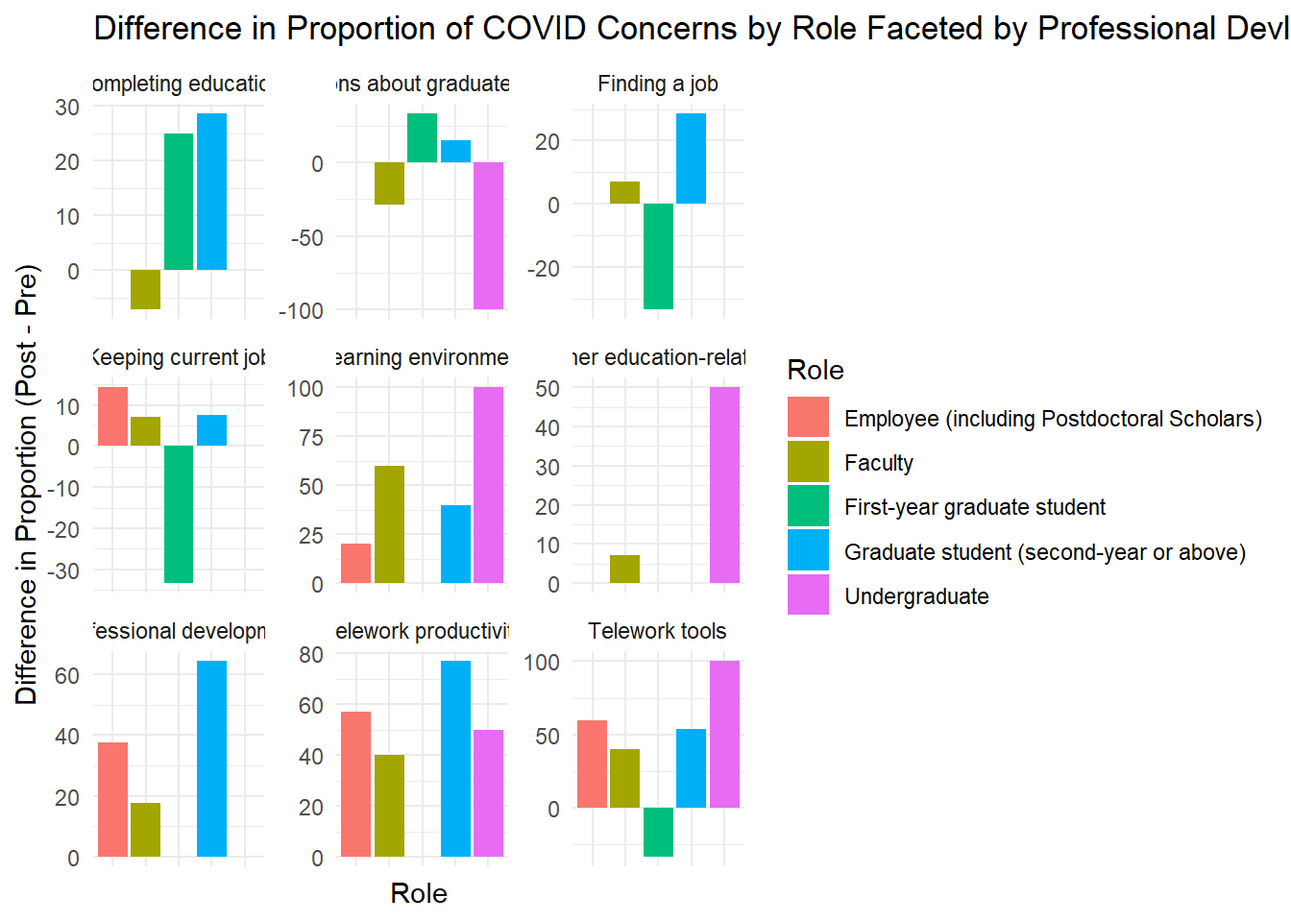
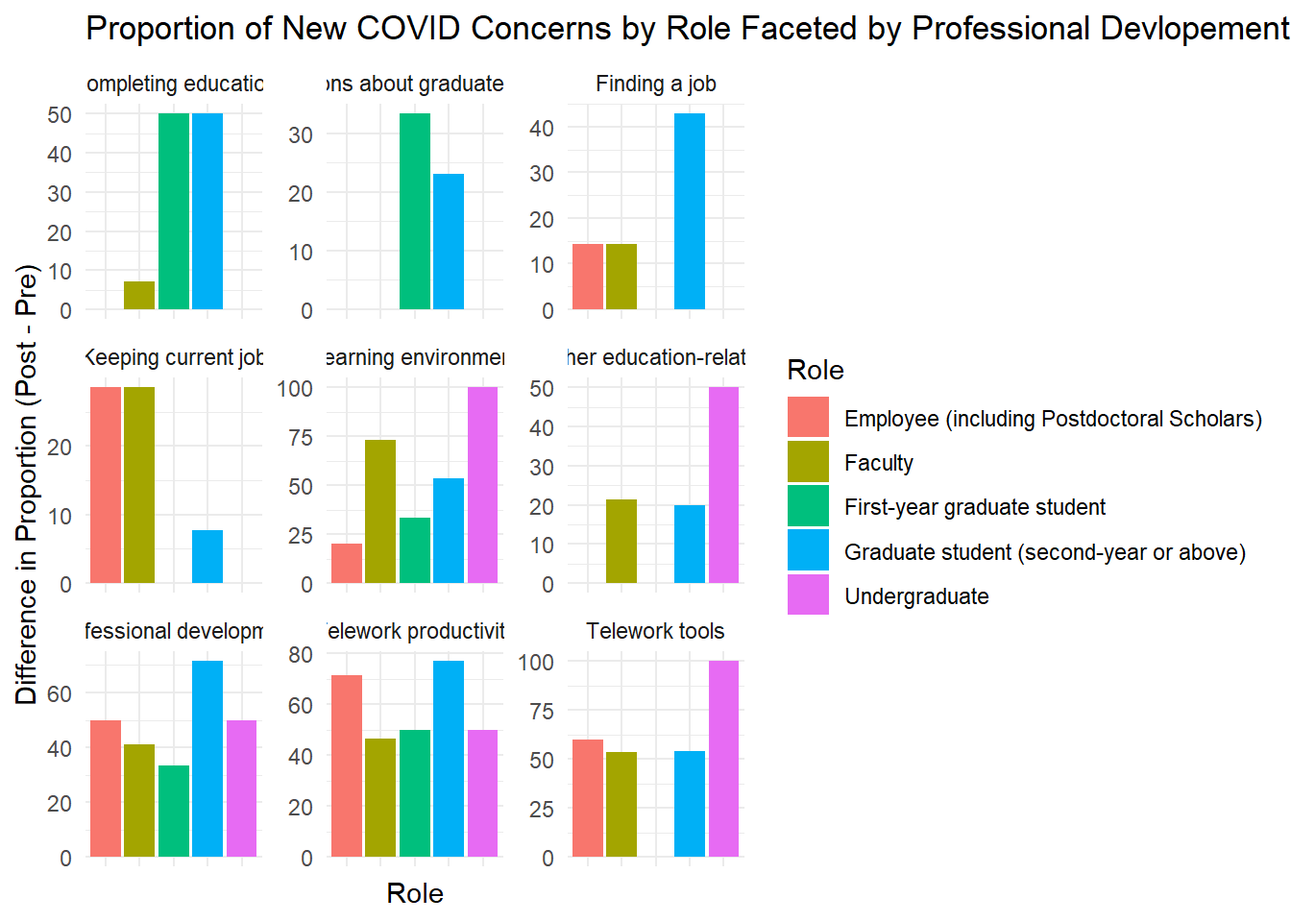
fixed issue no more difference

diff --git a/June10-14Activity.html b/June10-14Activity.html
@@ -951,10 +951,10 @@ $graph</code></pre>
 <span id="cb26-12"><a href="#cb26-12" aria-hidden="true" tabindex="-1"></a>    <span class="at">pre_covid =</span> <span class="fu">sum</span>(General.well.being <span class="sc">==</span> <span class="dv">1</span>),</span>
 <span id="cb26-13"><a href="#cb26-13" aria-hidden="true" tabindex="-1"></a>    <span class="at">post_covid =</span> <span class="fu">sum</span>(General.well.being <span class="sc">==</span> <span class="dv">2</span>)</span>
 <span id="cb26-14"><a href="#cb26-14" aria-hidden="true" tabindex="-1"></a>  )</span>
-<span id="cb26-15"><a href="#cb26-15" aria-hidden="true" tabindex="-1"></a>concern_counts <span class="ot">&lt;-</span> concern_counts <span class="sc">%&gt;%</span></span>
+<span id="cb26-15"><a href="#cb26-15" aria-hidden="true" tabindex="-1"></a>concern_counts2 <span class="ot">&lt;-</span> concern_counts <span class="sc">%&gt;%</span></span>
 <span id="cb26-16"><a href="#cb26-16" aria-hidden="true" tabindex="-1"></a>  <span class="fu">mutate</span>(<span class="at">difference =</span> post_covid <span class="sc">-</span> pre_covid)</span>
 <span id="cb26-17"><a href="#cb26-17" aria-hidden="true" tabindex="-1"></a></span>
-<span id="cb26-18"><a href="#cb26-18" aria-hidden="true" tabindex="-1"></a><span class="fu">ggplot</span>(concern_counts, <span class="fu">aes</span>(<span class="at">x =</span> difference, <span class="at">y =</span> difference, <span class="at">fill =</span> Race_Ethnicity)) <span class="sc">+</span></span>
+<span id="cb26-18"><a href="#cb26-18" aria-hidden="true" tabindex="-1"></a><span class="fu">ggplot</span>(concern_counts2, <span class="fu">aes</span>(<span class="at">x =</span> difference, <span class="at">y =</span> difference, <span class="at">fill =</span> Race_Ethnicity)) <span class="sc">+</span></span>
 <span id="cb26-19"><a href="#cb26-19" aria-hidden="true" tabindex="-1"></a>  <span class="fu">geom_bar</span>(<span class="at">stat =</span> <span class="st">"identity"</span>) <span class="sc">+</span></span>
 <span id="cb26-20"><a href="#cb26-20" aria-hidden="true" tabindex="-1"></a>  <span class="fu">labs</span>(<span class="at">title =</span> <span class="st">"Difference in Post-Pre COVID Concerns for General Well-being by Race/Ethnicity"</span>,</span>
 <span id="cb26-21"><a href="#cb26-21" aria-hidden="true" tabindex="-1"></a>       <span class="at">x =</span> <span class="st">"Race/Ethnicity"</span>,</span>
@@ -971,20 +971,19 @@ $graph</code></pre>
 </div>
 <div class="cell">
 <div class="sourceCode cell-code" id="cb27"><pre class="sourceCode r code-with-copy"><code class="sourceCode r"><span id="cb27-1"><a href="#cb27-1" aria-hidden="true" tabindex="-1"></a>concern_counts <span class="sc">%&gt;%</span></span>
-<span id="cb27-2"><a href="#cb27-2" aria-hidden="true" tabindex="-1"></a>  <span class="fu">kable</span>(<span class="at">col.names =</span> <span class="fu">c</span>(<span class="st">"Race/Ethnicity"</span>, <span class="st">"Pre-COVID Concerns"</span>, <span class="st">"Post-COVID Concerns"</span>, <span class="st">"Difference (Post - Pre)"</span>), </span>
-<span id="cb27-3"><a href="#cb27-3" aria-hidden="true" tabindex="-1"></a>        <span class="at">caption =</span> <span class="st">"Difference in Post-Pre COVID Concerns for General Well-being by Race/Ethnicity"</span>) <span class="sc">%&gt;%</span></span>
+<span id="cb27-2"><a href="#cb27-2" aria-hidden="true" tabindex="-1"></a>  <span class="fu">kable</span>(<span class="at">col.names =</span> <span class="fu">c</span>(<span class="st">"Race/Ethnicity"</span>, <span class="st">"Pre-COVID Concerns"</span>, <span class="st">"Post-COVID Concerns"</span>), </span>
+<span id="cb27-3"><a href="#cb27-3" aria-hidden="true" tabindex="-1"></a>        <span class="at">caption =</span> <span class="st">"Pre and New COVID Concerns for General Well-being by Race/Ethnicity"</span>) <span class="sc">%&gt;%</span></span>
 <span id="cb27-4"><a href="#cb27-4" aria-hidden="true" tabindex="-1"></a>  <span class="fu">kable_styling</span>(<span class="at">bootstrap_options =</span> <span class="fu">c</span>(<span class="st">"striped"</span>, <span class="st">"hover"</span>, <span class="st">"condensed"</span>, <span class="st">"responsive"</span>))</span></code><button title="Copy to Clipboard" class="code-copy-button"><i class="bi"></i></button></pre></div>
 <div class="cell-output-display">
 <div>
 <div class="table-responsive">
 <table class="table table-striped table-hover table-condensed table-sm small" data-quarto-postprocess="true">
-<caption>Difference in Post-Pre COVID Concerns for General Well-being by Race/Ethnicity</caption>
+<caption>Pre and New COVID Concerns for General Well-being by Race/Ethnicity</caption>
 <thead>
 <tr class="header">
 <th style="text-align: left;" data-quarto-table-cell-role="th">Race/Ethnicity</th>
 <th style="text-align: right;" data-quarto-table-cell-role="th">Pre-COVID Concerns</th>
 <th style="text-align: right;" data-quarto-table-cell-role="th">Post-COVID Concerns</th>
-<th style="text-align: right;" data-quarto-table-cell-role="th">Difference (Post - Pre)</th>
 </tr>
 </thead>
 <tbody>
@@ -992,17 +991,14 @@ $graph</code></pre>
 <td style="text-align: left;">Asian</td>
 <td style="text-align: right;">1</td>
 <td style="text-align: right;">2</td>
-<td style="text-align: right;">1</td>
 </tr>
 <tr class="even">
 <td style="text-align: left;">Black or African American</td>
 <td style="text-align: right;">1</td>
 <td style="text-align: right;">1</td>
-<td style="text-align: right;">0</td>
 </tr>
 <tr class="odd">
 <td style="text-align: left;">Decline to state</td>
-<td style="text-align: right;">0</td>
 <td style="text-align: right;">0</td>
 <td style="text-align: right;">0</td>
 </tr>
@@ -1010,23 +1006,19 @@ $graph</code></pre>
 <td style="text-align: left;">Hispanic or Latinx</td>
 <td style="text-align: right;">2</td>
 <td style="text-align: right;">2</td>
-<td style="text-align: right;">0</td>
 </tr>
 <tr class="odd">
 <td style="text-align: left;">Mixed Race (two or more races)</td>
 <td style="text-align: right;">1</td>
 <td style="text-align: right;">2</td>
-<td style="text-align: right;">1</td>
 </tr>
 <tr class="even">
 <td style="text-align: left;">Native Hawaiian or Other Pacific Islander</td>
 <td style="text-align: right;">1</td>
 <td style="text-align: right;">1</td>
-<td style="text-align: right;">0</td>
 </tr>
 <tr class="odd">
 <td style="text-align: left;">Other (write-in)</td>
-<td style="text-align: right;">0</td>
 <td style="text-align: right;">0</td>
 <td style="text-align: right;">0</td>
 </tr>
@@ -1034,7 +1026,6 @@ $graph</code></pre>
 <td style="text-align: left;">White</td>
 <td style="text-align: right;">4</td>
 <td style="text-align: right;">12</td>
-<td style="text-align: right;">8</td>
 </tr>
 </tbody>
 </table>
@@ -1067,25 +1058,23 @@ $graph</code></pre>
 <span id="cb28-20"><a href="#cb28-20" aria-hidden="true" tabindex="-1"></a>  <span class="fu">mutate</span>(</span>
 <span id="cb28-21"><a href="#cb28-21" aria-hidden="true" tabindex="-1"></a>    <span class="at">pre_covid_prop =</span> <span class="fu">round</span>((pre_covid <span class="sc">/</span> total) <span class="sc">*</span> <span class="dv">100</span>, <span class="dv">2</span>),</span>
 <span id="cb28-22"><a href="#cb28-22" aria-hidden="true" tabindex="-1"></a>    <span class="at">post_covid_prop =</span> <span class="fu">round</span>((post_covid <span class="sc">/</span> total) <span class="sc">*</span> <span class="dv">100</span>, <span class="dv">2</span>),</span>
-<span id="cb28-23"><a href="#cb28-23" aria-hidden="true" tabindex="-1"></a>    <span class="at">difference =</span> <span class="fu">round</span>(post_covid_prop <span class="sc">-</span> pre_covid_prop, <span class="dv">2</span>)</span>
-<span id="cb28-24"><a href="#cb28-24" aria-hidden="true" tabindex="-1"></a>  )</span>
-<span id="cb28-25"><a href="#cb28-25" aria-hidden="true" tabindex="-1"></a></span>
-<span id="cb28-26"><a href="#cb28-26" aria-hidden="true" tabindex="-1"></a>concern_counts <span class="sc">%&gt;%</span></span>
-<span id="cb28-27"><a href="#cb28-27" aria-hidden="true" tabindex="-1"></a>  <span class="fu">select</span>(Race_Ethnicity, pre_covid_prop, post_covid_prop, difference) <span class="sc">%&gt;%</span></span>
-<span id="cb28-28"><a href="#cb28-28" aria-hidden="true" tabindex="-1"></a>  <span class="fu">kable</span>(<span class="at">col.names =</span> <span class="fu">c</span>(<span class="st">"Race/Ethnicity"</span>, <span class="st">"Pre-COVID Proportion (%)"</span>, <span class="st">"Post-COVID Proportion (%)"</span>, <span class="st">"Difference (Post - Pre)"</span>), </span>
-<span id="cb28-29"><a href="#cb28-29" aria-hidden="true" tabindex="-1"></a>        <span class="at">caption =</span> <span class="st">"Difference in Post-Pre COVID Concerns for Professional Development (Proportions)"</span>) <span class="sc">%&gt;%</span></span>
-<span id="cb28-30"><a href="#cb28-30" aria-hidden="true" tabindex="-1"></a>  <span class="fu">kable_styling</span>(<span class="at">bootstrap_options =</span> <span class="fu">c</span>(<span class="st">"striped"</span>, <span class="st">"hover"</span>, <span class="st">"condensed"</span>, <span class="st">"responsive"</span>))</span></code><button title="Copy to Clipboard" class="code-copy-button"><i class="bi"></i></button></pre></div>
+<span id="cb28-23"><a href="#cb28-23" aria-hidden="true" tabindex="-1"></a>  )</span>
+<span id="cb28-24"><a href="#cb28-24" aria-hidden="true" tabindex="-1"></a></span>
+<span id="cb28-25"><a href="#cb28-25" aria-hidden="true" tabindex="-1"></a>concern_counts <span class="sc">%&gt;%</span></span>
+<span id="cb28-26"><a href="#cb28-26" aria-hidden="true" tabindex="-1"></a>  <span class="fu">select</span>(Race_Ethnicity, pre_covid_prop, post_covid_prop) <span class="sc">%&gt;%</span></span>
+<span id="cb28-27"><a href="#cb28-27" aria-hidden="true" tabindex="-1"></a>  <span class="fu">kable</span>(<span class="at">col.names =</span> <span class="fu">c</span>(<span class="st">"Race/Ethnicity"</span>, <span class="st">"Pre-COVID Proportion (%)"</span>, <span class="st">"New COVID Proportion (%)"</span>), </span>
+<span id="cb28-28"><a href="#cb28-28" aria-hidden="true" tabindex="-1"></a>        <span class="at">caption =</span> <span class="st">"Pre and New COVID Concerns for Professional Development (Proportions)"</span>) <span class="sc">%&gt;%</span></span>
+<span id="cb28-29"><a href="#cb28-29" aria-hidden="true" tabindex="-1"></a>  <span class="fu">kable_styling</span>(<span class="at">bootstrap_options =</span> <span class="fu">c</span>(<span class="st">"striped"</span>, <span class="st">"hover"</span>, <span class="st">"condensed"</span>, <span class="st">"responsive"</span>))</span></code><button title="Copy to Clipboard" class="code-copy-button"><i class="bi"></i></button></pre></div>
 <div class="cell-output-display">
 <div>
 <div class="table-responsive">
 <table class="table table-striped table-hover table-condensed table-sm small" data-quarto-postprocess="true">
-<caption>Difference in Post-Pre COVID Concerns for Professional Development (Proportions)</caption>
+<caption>Pre and New COVID Concerns for Professional Development (Proportions)</caption>
 <thead>
 <tr class="header">
 <th style="text-align: left;" data-quarto-table-cell-role="th">Race/Ethnicity</th>
 <th style="text-align: right;" data-quarto-table-cell-role="th">Pre-COVID Proportion (%)</th>
-<th style="text-align: right;" data-quarto-table-cell-role="th">Post-COVID Proportion (%)</th>
-<th style="text-align: right;" data-quarto-table-cell-role="th">Difference (Post - Pre)</th>
+<th style="text-align: right;" data-quarto-table-cell-role="th">New COVID Proportion (%)</th>
 </tr>
 </thead>
 <tbody>
@@ -1093,49 +1082,41 @@ $graph</code></pre>
 <td style="text-align: left;">Asian</td>
 <td style="text-align: right;">37.50</td>
 <td style="text-align: right;">37.50</td>
-<td style="text-align: right;">0.00</td>
 </tr>
 <tr class="even">
 <td style="text-align: left;">Black or African American</td>
 <td style="text-align: right;">66.67</td>
 <td style="text-align: right;">33.33</td>
-<td style="text-align: right;">-33.34</td>
 </tr>
 <tr class="odd">
 <td style="text-align: left;">Decline to state</td>
 <td style="text-align: right;">0.00</td>
-<td style="text-align: right;">100.00</td>
 <td style="text-align: right;">100.00</td>
 </tr>
 <tr class="even">
 <td style="text-align: left;">Hispanic or Latinx</td>
 <td style="text-align: right;">0.00</td>
 <td style="text-align: right;">66.67</td>
-<td style="text-align: right;">66.67</td>
 </tr>
 <tr class="odd">
 <td style="text-align: left;">Mixed Race (two or more races)</td>
 <td style="text-align: right;">33.33</td>
 <td style="text-align: right;">50.00</td>
-<td style="text-align: right;">16.67</td>
 </tr>
 <tr class="even">
 <td style="text-align: left;">Native Hawaiian or Other Pacific Islander</td>
 <td style="text-align: right;">50.00</td>
 <td style="text-align: right;">50.00</td>
-<td style="text-align: right;">0.00</td>
 </tr>
 <tr class="odd">
 <td style="text-align: left;">Other (write-in)</td>
 <td style="text-align: right;">0.00</td>
-<td style="text-align: right;">50.00</td>
 <td style="text-align: right;">50.00</td>
 </tr>
 <tr class="even">
 <td style="text-align: left;">White</td>
 <td style="text-align: right;">11.54</td>
 <td style="text-align: right;">61.54</td>
-<td style="text-align: right;">50.00</td>
 </tr>
 </tbody>
 </table>
@@ -1146,20 +1127,13 @@ $graph</code></pre>
 </div>
 </div>
 <div class="cell">
-<div class="sourceCode cell-code" id="cb29"><pre class="sourceCode r code-with-copy"><code class="sourceCode r"><span id="cb29-1"><a href="#cb29-1" aria-hidden="true" tabindex="-1"></a><span class="fu">ggplot</span>(concern_counts, <span class="fu">aes</span>(<span class="at">x =</span> Race_Ethnicity, <span class="at">y =</span> difference, <span class="at">fill =</span> Race_Ethnicity)) <span class="sc">+</span></span>
-<span id="cb29-2"><a href="#cb29-2" aria-hidden="true" tabindex="-1"></a>  <span class="fu">geom_bar</span>(<span class="at">stat =</span> <span class="st">"identity"</span>) <span class="sc">+</span></span>
-<span id="cb29-3"><a href="#cb29-3" aria-hidden="true" tabindex="-1"></a>  <span class="fu">labs</span>(<span class="at">title =</span> <span class="st">"Difference in Proportion of Professional Development by Race"</span>,</span>
-<span id="cb29-4"><a href="#cb29-4" aria-hidden="true" tabindex="-1"></a>       <span class="at">x =</span> <span class="st">""</span>, <span class="at">y =</span> <span class="st">"Difference in Proportion (Post - Pre)"</span>) <span class="sc">+</span></span>
-<span id="cb29-5"><a href="#cb29-5" aria-hidden="true" tabindex="-1"></a>  <span class="fu">theme_minimal</span>() <span class="sc">+</span></span>
-<span id="cb29-6"><a href="#cb29-6" aria-hidden="true" tabindex="-1"></a>  <span class="fu">theme</span>(<span class="at">axis.text.x=</span><span class="fu">element_blank</span>(), </span>
-<span id="cb29-7"><a href="#cb29-7" aria-hidden="true" tabindex="-1"></a>        <span class="at">axis.ticks.x=</span><span class="fu">element_blank</span>())</span></code><button title="Copy to Clipboard" class="code-copy-button"><i class="bi"></i></button></pre></div>
-<div class="cell-output-display">
-<div>
-<figure class="figure">
-<p><img src="June10-14Activity_files/figure-html/unnamed-chunk-15-1.png" class="img-fluid figure-img" width="672"></p>
-</figure>
-</div>
-</div>
+<div class="sourceCode cell-code" id="cb29"><pre class="sourceCode r code-with-copy"><code class="sourceCode r"><span id="cb29-1"><a href="#cb29-1" aria-hidden="true" tabindex="-1"></a><span class="co"># ggplot(concern_counts, aes(x = Race_Ethnicity, y = difference, fill = Race_Ethnicity)) +</span></span>
+<span id="cb29-2"><a href="#cb29-2" aria-hidden="true" tabindex="-1"></a><span class="co">#   geom_bar(stat = "identity") +</span></span>
+<span id="cb29-3"><a href="#cb29-3" aria-hidden="true" tabindex="-1"></a><span class="co">#   labs(title = "Difference in Proportion of Professional Development by Race",</span></span>
+<span id="cb29-4"><a href="#cb29-4" aria-hidden="true" tabindex="-1"></a><span class="co">#        x = "", y = "Difference in Proportion (Post - Pre)") +</span></span>
+<span id="cb29-5"><a href="#cb29-5" aria-hidden="true" tabindex="-1"></a><span class="co">#   theme_minimal() +</span></span>
+<span id="cb29-6"><a href="#cb29-6" aria-hidden="true" tabindex="-1"></a><span class="co">#   theme(axis.text.x=element_blank(), </span></span>
+<span id="cb29-7"><a href="#cb29-7" aria-hidden="true" tabindex="-1"></a><span class="co">#         axis.ticks.x=element_blank())</span></span></code><button title="Copy to Clipboard" class="code-copy-button"><i class="bi"></i></button></pre></div>
 </div>
 <div class="cell">
 <div class="sourceCode cell-code" id="cb30"><pre class="sourceCode r code-with-copy"><code class="sourceCode r"><span id="cb30-1"><a href="#cb30-1" aria-hidden="true" tabindex="-1"></a>df_personal[] <span class="ot">&lt;-</span> <span class="fu">lapply</span>(df_personal[], as.character)</span>
@@ -1183,26 +1157,24 @@ $graph</code></pre>
 <span id="cb30-19"><a href="#cb30-19" aria-hidden="true" tabindex="-1"></a>  <span class="fu">left_join</span>(total_counts, <span class="at">by =</span> <span class="st">"Race_Ethnicity"</span>) <span class="sc">%&gt;%</span></span>
 <span id="cb30-20"><a href="#cb30-20" aria-hidden="true" tabindex="-1"></a>  <span class="fu">mutate</span>(</span>
 <span id="cb30-21"><a href="#cb30-21" aria-hidden="true" tabindex="-1"></a>    <span class="at">pre_covid_prop =</span> <span class="fu">round</span>((pre_covid <span class="sc">/</span> total) <span class="sc">*</span> <span class="dv">100</span>, <span class="dv">2</span>),</span>
-<span id="cb30-22"><a href="#cb30-22" aria-hidden="true" tabindex="-1"></a>    <span class="at">post_covid_prop =</span> <span class="fu">round</span>((post_covid <span class="sc">/</span> total) <span class="sc">*</span> <span class="dv">100</span>, <span class="dv">2</span>),</span>
-<span id="cb30-23"><a href="#cb30-23" aria-hidden="true" tabindex="-1"></a>    <span class="at">difference =</span> <span class="fu">round</span>(post_covid_prop <span class="sc">-</span> pre_covid_prop, <span class="dv">2</span>)</span>
-<span id="cb30-24"><a href="#cb30-24" aria-hidden="true" tabindex="-1"></a>  )</span>
-<span id="cb30-25"><a href="#cb30-25" aria-hidden="true" tabindex="-1"></a></span>
-<span id="cb30-26"><a href="#cb30-26" aria-hidden="true" tabindex="-1"></a>concern_counts <span class="sc">%&gt;%</span></span>
-<span id="cb30-27"><a href="#cb30-27" aria-hidden="true" tabindex="-1"></a>  <span class="fu">select</span>(Race_Ethnicity, pre_covid_prop, post_covid_prop, difference) <span class="sc">%&gt;%</span></span>
-<span id="cb30-28"><a href="#cb30-28" aria-hidden="true" tabindex="-1"></a>  <span class="fu">kable</span>(<span class="at">col.names =</span> <span class="fu">c</span>(<span class="st">"Race/Ethnicity"</span>, <span class="st">"Pre-COVID Proportion (%)"</span>, <span class="st">"Post-COVID Proportion (%)"</span>, <span class="st">"Difference (Post - Pre)"</span>), </span>
-<span id="cb30-29"><a href="#cb30-29" aria-hidden="true" tabindex="-1"></a>        <span class="at">caption =</span> <span class="st">"Difference in Post-Pre COVID Concerns for General Well-being by Race/Ethnicity (Proportions)"</span>) <span class="sc">%&gt;%</span></span>
-<span id="cb30-30"><a href="#cb30-30" aria-hidden="true" tabindex="-1"></a>  <span class="fu">kable_styling</span>(<span class="at">bootstrap_options =</span> <span class="fu">c</span>(<span class="st">"striped"</span>, <span class="st">"hover"</span>, <span class="st">"condensed"</span>, <span class="st">"responsive"</span>))</span></code><button title="Copy to Clipboard" class="code-copy-button"><i class="bi"></i></button></pre></div>
+<span id="cb30-22"><a href="#cb30-22" aria-hidden="true" tabindex="-1"></a>    <span class="at">post_covid_prop =</span> <span class="fu">round</span>((post_covid <span class="sc">/</span> total) <span class="sc">*</span> <span class="dv">100</span>, <span class="dv">2</span>)</span>
+<span id="cb30-23"><a href="#cb30-23" aria-hidden="true" tabindex="-1"></a>  )</span>
+<span id="cb30-24"><a href="#cb30-24" aria-hidden="true" tabindex="-1"></a></span>
+<span id="cb30-25"><a href="#cb30-25" aria-hidden="true" tabindex="-1"></a>concern_counts <span class="sc">%&gt;%</span></span>
+<span id="cb30-26"><a href="#cb30-26" aria-hidden="true" tabindex="-1"></a>  <span class="fu">select</span>(Race_Ethnicity, pre_covid_prop, post_covid_prop) <span class="sc">%&gt;%</span></span>
+<span id="cb30-27"><a href="#cb30-27" aria-hidden="true" tabindex="-1"></a>  <span class="fu">kable</span>(<span class="at">col.names =</span> <span class="fu">c</span>(<span class="st">"Race/Ethnicity"</span>, <span class="st">"Pre-COVID Proportion (%)"</span>, <span class="st">"New COVID Proportion (%)"</span>), </span>
+<span id="cb30-28"><a href="#cb30-28" aria-hidden="true" tabindex="-1"></a>        <span class="at">caption =</span> <span class="st">"Pre and New COVID Concerns for General Well-being by Race/Ethnicity (Proportions)"</span>) <span class="sc">%&gt;%</span></span>
+<span id="cb30-29"><a href="#cb30-29" aria-hidden="true" tabindex="-1"></a>  <span class="fu">kable_styling</span>(<span class="at">bootstrap_options =</span> <span class="fu">c</span>(<span class="st">"striped"</span>, <span class="st">"hover"</span>, <span class="st">"condensed"</span>, <span class="st">"responsive"</span>))</span></code><button title="Copy to Clipboard" class="code-copy-button"><i class="bi"></i></button></pre></div>
 <div class="cell-output-display">
 <div>
 <div class="table-responsive">
 <table class="table table-striped table-hover table-condensed table-sm small" data-quarto-postprocess="true">
-<caption>Difference in Post-Pre COVID Concerns for General Well-being by Race/Ethnicity (Proportions)</caption>
+<caption>Pre and New COVID Concerns for General Well-being by Race/Ethnicity (Proportions)</caption>
 <thead>
 <tr class="header">
 <th style="text-align: left;" data-quarto-table-cell-role="th">Race/Ethnicity</th>
 <th style="text-align: right;" data-quarto-table-cell-role="th">Pre-COVID Proportion (%)</th>
-<th style="text-align: right;" data-quarto-table-cell-role="th">Post-COVID Proportion (%)</th>
-<th style="text-align: right;" data-quarto-table-cell-role="th">Difference (Post - Pre)</th>
+<th style="text-align: right;" data-quarto-table-cell-role="th">New COVID Proportion (%)</th>
 </tr>
 </thead>
 <tbody>
@@ -1210,17 +1182,14 @@ $graph</code></pre>
 <td style="text-align: left;">Asian</td>
 <td style="text-align: right;">20.00</td>
 <td style="text-align: right;">40.00</td>
-<td style="text-align: right;">20.00</td>
 </tr>
 <tr class="even">
 <td style="text-align: left;">Black or African American</td>
 <td style="text-align: right;">33.33</td>
 <td style="text-align: right;">33.33</td>
-<td style="text-align: right;">0.00</td>
 </tr>
 <tr class="odd">
 <td style="text-align: left;">Decline to state</td>
-<td style="text-align: right;">0.00</td>
 <td style="text-align: right;">0.00</td>
 <td style="text-align: right;">0.00</td>
 </tr>
@@ -1228,23 +1197,19 @@ $graph</code></pre>
 <td style="text-align: left;">Hispanic or Latinx</td>
 <td style="text-align: right;">33.33</td>
 <td style="text-align: right;">33.33</td>
-<td style="text-align: right;">0.00</td>
 </tr>
 <tr class="odd">
 <td style="text-align: left;">Mixed Race (two or more races)</td>
 <td style="text-align: right;">33.33</td>
 <td style="text-align: right;">66.67</td>
-<td style="text-align: right;">33.34</td>
 </tr>
 <tr class="even">
 <td style="text-align: left;">Native Hawaiian or Other Pacific Islander</td>
 <td style="text-align: right;">50.00</td>
 <td style="text-align: right;">50.00</td>
-<td style="text-align: right;">0.00</td>
 </tr>
 <tr class="odd">
 <td style="text-align: left;">Other (write-in)</td>
-<td style="text-align: right;">0.00</td>
 <td style="text-align: right;">0.00</td>
 <td style="text-align: right;">0.00</td>
 </tr>
@@ -1252,7 +1217,6 @@ $graph</code></pre>
 <td style="text-align: left;">White</td>
 <td style="text-align: right;">16.00</td>
 <td style="text-align: right;">48.00</td>
-<td style="text-align: right;">32.00</td>
 </tr>
 </tbody>
 </table>
@@ -1263,20 +1227,13 @@ $graph</code></pre>
 </div>
 </div>
 <div class="cell">
-<div class="sourceCode cell-code" id="cb31"><pre class="sourceCode r code-with-copy"><code class="sourceCode r"><span id="cb31-1"><a href="#cb31-1" aria-hidden="true" tabindex="-1"></a><span class="fu">ggplot</span>(concern_counts, <span class="fu">aes</span>(<span class="at">x =</span> Race_Ethnicity, <span class="at">y =</span> difference, <span class="at">fill =</span> Race_Ethnicity)) <span class="sc">+</span></span>
-<span id="cb31-2"><a href="#cb31-2" aria-hidden="true" tabindex="-1"></a>  <span class="fu">geom_bar</span>(<span class="at">stat =</span> <span class="st">"identity"</span>) <span class="sc">+</span></span>
-<span id="cb31-3"><a href="#cb31-3" aria-hidden="true" tabindex="-1"></a>  <span class="fu">labs</span>(<span class="at">title =</span> <span class="st">"Difference in Proportion of Generall Well Being by Race"</span>,</span>
-<span id="cb31-4"><a href="#cb31-4" aria-hidden="true" tabindex="-1"></a>       <span class="at">x =</span> <span class="st">""</span>, <span class="at">y =</span> <span class="st">"Difference in Proportion (Post - Pre)"</span>) <span class="sc">+</span></span>
-<span id="cb31-5"><a href="#cb31-5" aria-hidden="true" tabindex="-1"></a>  <span class="fu">theme_minimal</span>() <span class="sc">+</span></span>
-<span id="cb31-6"><a href="#cb31-6" aria-hidden="true" tabindex="-1"></a>  <span class="fu">theme</span>(<span class="at">axis.text.x=</span><span class="fu">element_blank</span>(), </span>
-<span id="cb31-7"><a href="#cb31-7" aria-hidden="true" tabindex="-1"></a>        <span class="at">axis.ticks.x=</span><span class="fu">element_blank</span>())</span></code><button title="Copy to Clipboard" class="code-copy-button"><i class="bi"></i></button></pre></div>
-<div class="cell-output-display">
-<div>
-<figure class="figure">
-<p><img src="June10-14Activity_files/figure-html/unnamed-chunk-17-1.png" class="img-fluid figure-img" width="672"></p>
-</figure>
-</div>
-</div>
+<div class="sourceCode cell-code" id="cb31"><pre class="sourceCode r code-with-copy"><code class="sourceCode r"><span id="cb31-1"><a href="#cb31-1" aria-hidden="true" tabindex="-1"></a><span class="co"># ggplot(concern_counts, aes(x = Race_Ethnicity, y = difference, fill = Race_Ethnicity)) +</span></span>
+<span id="cb31-2"><a href="#cb31-2" aria-hidden="true" tabindex="-1"></a><span class="co">#   geom_bar(stat = "identity") +</span></span>
+<span id="cb31-3"><a href="#cb31-3" aria-hidden="true" tabindex="-1"></a><span class="co">#   labs(title = "Difference in Proportion of Generall Well Being by Race",</span></span>
+<span id="cb31-4"><a href="#cb31-4" aria-hidden="true" tabindex="-1"></a><span class="co">#        x = "", y = "Difference in Proportion (Post - Pre)") +</span></span>
+<span id="cb31-5"><a href="#cb31-5" aria-hidden="true" tabindex="-1"></a><span class="co">#   theme_minimal() +</span></span>
+<span id="cb31-6"><a href="#cb31-6" aria-hidden="true" tabindex="-1"></a><span class="co">#   theme(axis.text.x=element_blank(), </span></span>
+<span id="cb31-7"><a href="#cb31-7" aria-hidden="true" tabindex="-1"></a><span class="co">#         axis.ticks.x=element_blank())</span></span></code><button title="Copy to Clipboard" class="code-copy-button"><i class="bi"></i></button></pre></div>
 </div>
 </section>
 <section id="try-by-role" class="level2">
@@ -1682,10 +1639,10 @@ $graph</code></pre>
 </div>
 </div>
 <div class="cell">
-<div class="sourceCode cell-code" id="cb34"><pre class="sourceCode r code-with-copy"><code class="sourceCode r"><span id="cb34-1"><a href="#cb34-1" aria-hidden="true" tabindex="-1"></a><span class="fu">ggplot</span>(concern_counts, <span class="fu">aes</span>(<span class="at">x =</span> Role, <span class="at">y =</span> difference, <span class="at">fill =</span> Role)) <span class="sc">+</span></span>
+<div class="sourceCode cell-code" id="cb34"><pre class="sourceCode r code-with-copy"><code class="sourceCode r"><span id="cb34-1"><a href="#cb34-1" aria-hidden="true" tabindex="-1"></a><span class="fu">ggplot</span>(concern_counts, <span class="fu">aes</span>(<span class="at">x =</span> Role, <span class="at">y =</span> post_covid_prop, <span class="at">fill =</span> Role)) <span class="sc">+</span></span>
 <span id="cb34-2"><a href="#cb34-2" aria-hidden="true" tabindex="-1"></a>  <span class="fu">geom_bar</span>(<span class="at">stat =</span> <span class="st">"identity"</span>) <span class="sc">+</span></span>
 <span id="cb34-3"><a href="#cb34-3" aria-hidden="true" tabindex="-1"></a>  <span class="fu">facet_wrap</span>(<span class="sc">~</span> Professional_Development, <span class="at">scales =</span> <span class="st">"free_y"</span>) <span class="sc">+</span></span>
-<span id="cb34-4"><a href="#cb34-4" aria-hidden="true" tabindex="-1"></a>  <span class="fu">labs</span>(<span class="at">title =</span> <span class="st">"Difference in Proportion of COVID Concerns by Role Faceted by Professional Devlopement Category"</span>,</span>
+<span id="cb34-4"><a href="#cb34-4" aria-hidden="true" tabindex="-1"></a>  <span class="fu">labs</span>(<span class="at">title =</span> <span class="st">"Proportion of New COVID Concerns by Role Faceted by Professional Devlopement Category"</span>,</span>
 <span id="cb34-5"><a href="#cb34-5" aria-hidden="true" tabindex="-1"></a>       <span class="at">x =</span> <span class="st">"Role"</span>, <span class="at">y =</span> <span class="st">"Difference in Proportion (Post - Pre)"</span>) <span class="sc">+</span></span>
 <span id="cb34-6"><a href="#cb34-6" aria-hidden="true" tabindex="-1"></a>  <span class="fu">theme_minimal</span>() <span class="sc">+</span></span>
 <span id="cb34-7"><a href="#cb34-7" aria-hidden="true" tabindex="-1"></a>  <span class="co"># theme(axis.text.x = element_text(angle = 45, hjust = 1, vjust = 1),</span></span>
@@ -1701,10 +1658,10 @@ $graph</code></pre>
 </div>
 </div>
 <div class="cell">
-<div class="sourceCode cell-code" id="cb35"><pre class="sourceCode r code-with-copy"><code class="sourceCode r"><span id="cb35-1"><a href="#cb35-1" aria-hidden="true" tabindex="-1"></a><span class="fu">ggplot</span>(concern_counts, <span class="fu">aes</span>(<span class="at">x =</span> Professional_Development, <span class="at">y =</span> difference, <span class="at">fill =</span> Professional_Development)) <span class="sc">+</span></span>
+<div class="sourceCode cell-code" id="cb35"><pre class="sourceCode r code-with-copy"><code class="sourceCode r"><span id="cb35-1"><a href="#cb35-1" aria-hidden="true" tabindex="-1"></a><span class="fu">ggplot</span>(concern_counts, <span class="fu">aes</span>(<span class="at">x =</span> Professional_Development, <span class="at">y =</span> post_covid_prop, <span class="at">fill =</span> Professional_Development)) <span class="sc">+</span></span>
 <span id="cb35-2"><a href="#cb35-2" aria-hidden="true" tabindex="-1"></a>  <span class="fu">geom_bar</span>(<span class="at">stat =</span> <span class="st">"identity"</span>) <span class="sc">+</span></span>
 <span id="cb35-3"><a href="#cb35-3" aria-hidden="true" tabindex="-1"></a>  <span class="fu">facet_wrap</span>(<span class="sc">~</span> Role, <span class="at">scales =</span> <span class="st">"free_y"</span>) <span class="sc">+</span></span>
-<span id="cb35-4"><a href="#cb35-4" aria-hidden="true" tabindex="-1"></a>  <span class="fu">labs</span>(<span class="at">title =</span> <span class="st">"Difference in Proportion of COVID Concerns by Professional Development Category Faceted by Role"</span>,</span>
+<span id="cb35-4"><a href="#cb35-4" aria-hidden="true" tabindex="-1"></a>  <span class="fu">labs</span>(<span class="at">title =</span> <span class="st">"Proportion of New COVID Concerns by Professional Development Category Faceted by Role"</span>,</span>
 <span id="cb35-5"><a href="#cb35-5" aria-hidden="true" tabindex="-1"></a>       <span class="at">x =</span> <span class="st">""</span>, <span class="at">y =</span> <span class="st">"Difference in Proportion (Post - Pre)"</span>) <span class="sc">+</span></span>
 <span id="cb35-6"><a href="#cb35-6" aria-hidden="true" tabindex="-1"></a>  <span class="fu">theme_minimal</span>() <span class="sc">+</span></span>
 <span id="cb35-7"><a href="#cb35-7" aria-hidden="true" tabindex="-1"></a>  <span class="fu">theme</span>(<span class="at">axis.text.x=</span><span class="fu">element_blank</span>(), </span>
